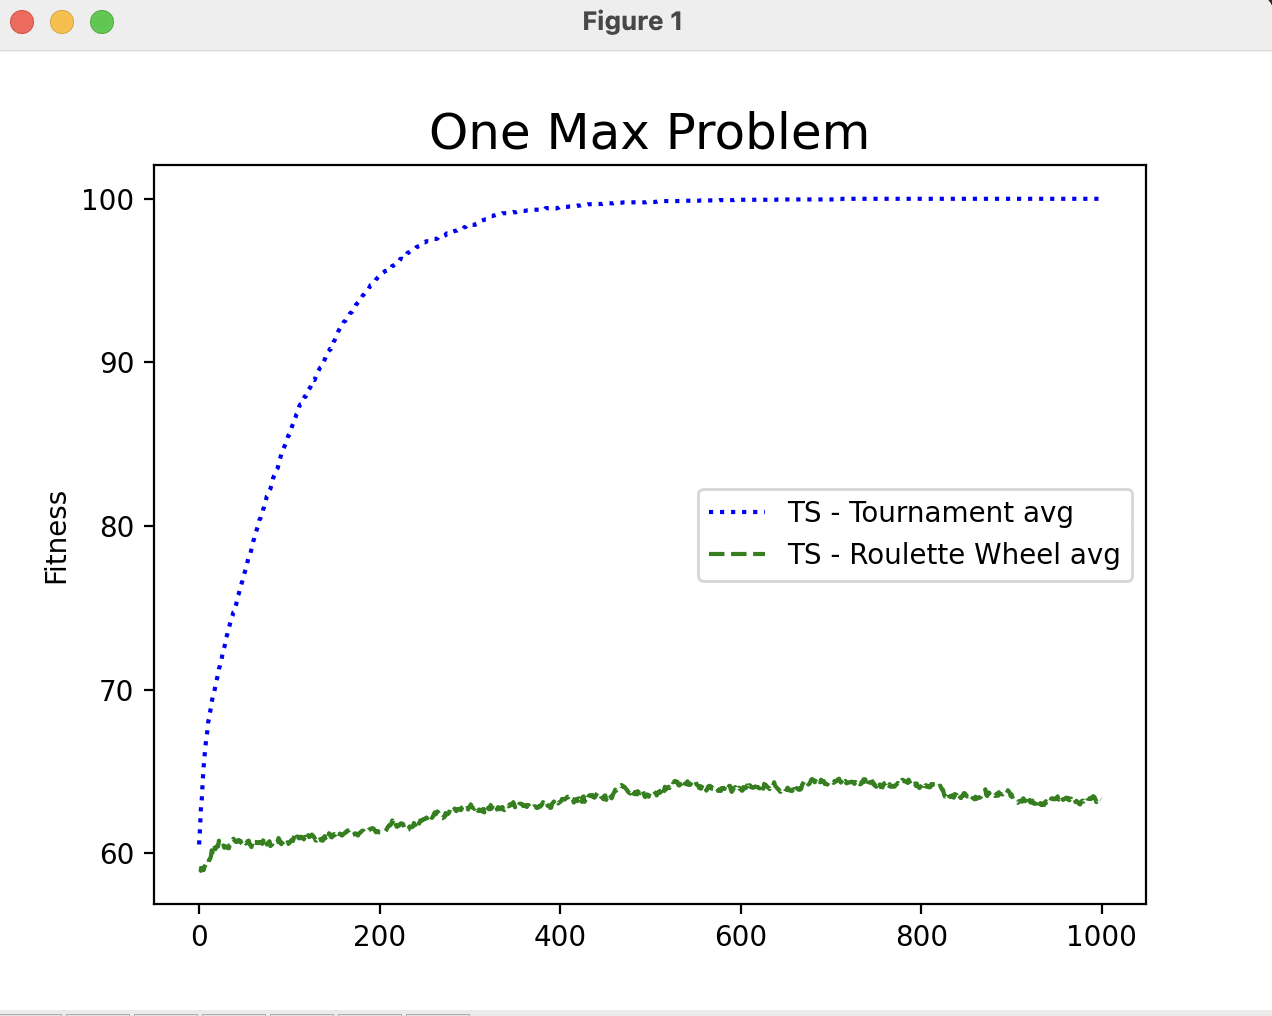
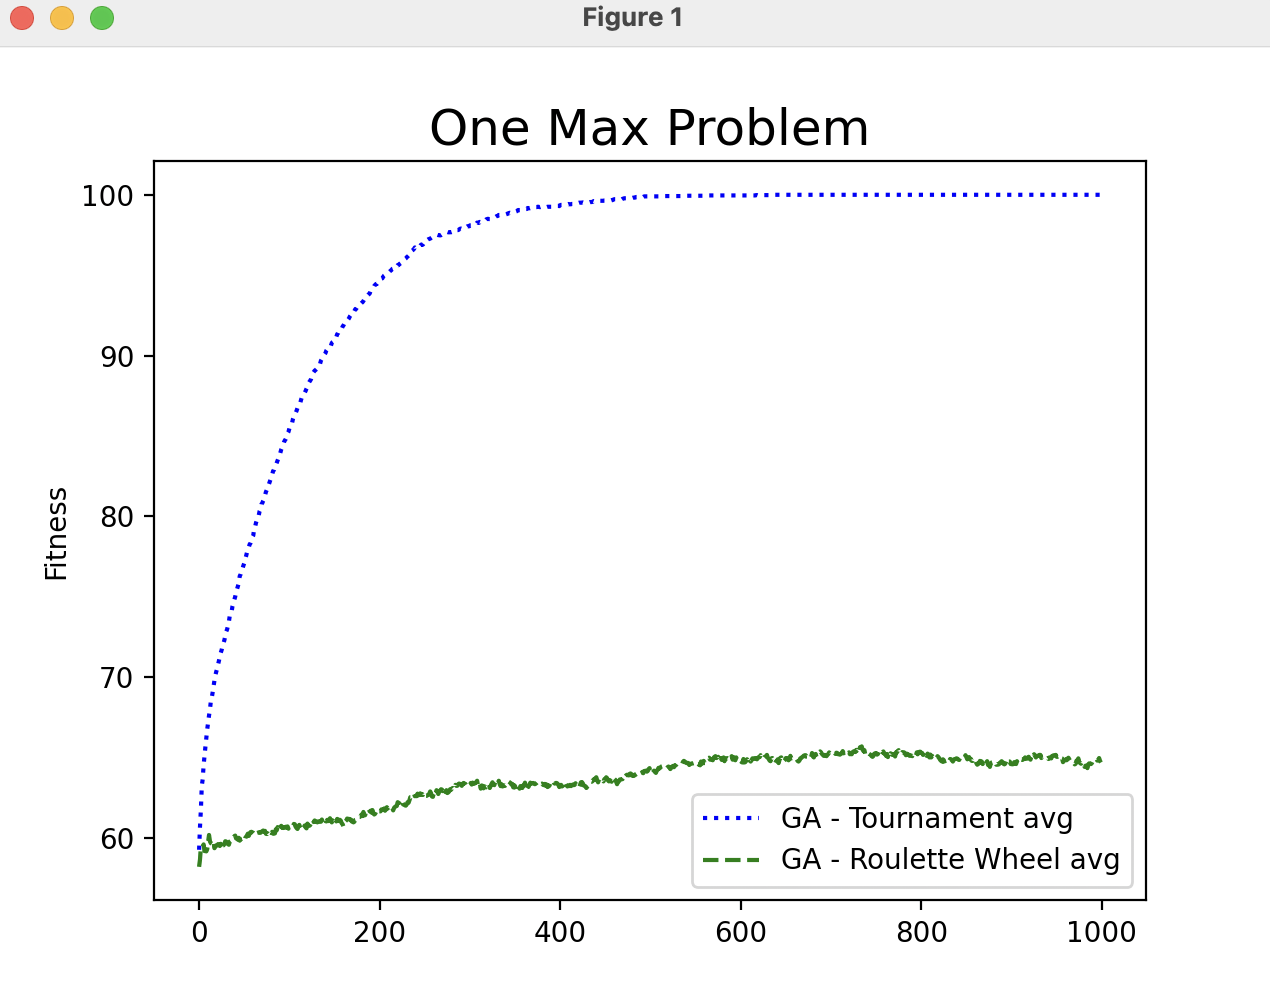
add img

diff --git a/functions.py b/functions.py
@@ -172,8 +172,8 @@ def Draw(print_content, algo, problem, result, special_result):
             elif algo == 'GA': #畫HC+SA+TB+GA(本身)
                 TS_result_t = result[0]
                 TS_result_w = result[1]
-                plt.plot(TS_result_t, 'b:', label='TS - Tournament avg')
-                plt.plot(TS_result_w, 'g--', label='TS - Roulette Wheel avg')
+                plt.plot(TS_result_t, 'b:', label='GA - Tournament avg')
+                plt.plot(TS_result_w, 'g--', label='GA - Roulette Wheel avg')
         if problem == 2: #deceptive
             title = 'Deceptive Problem'
             y_top = result[len(result)-1]; y_bottom = result[0]
